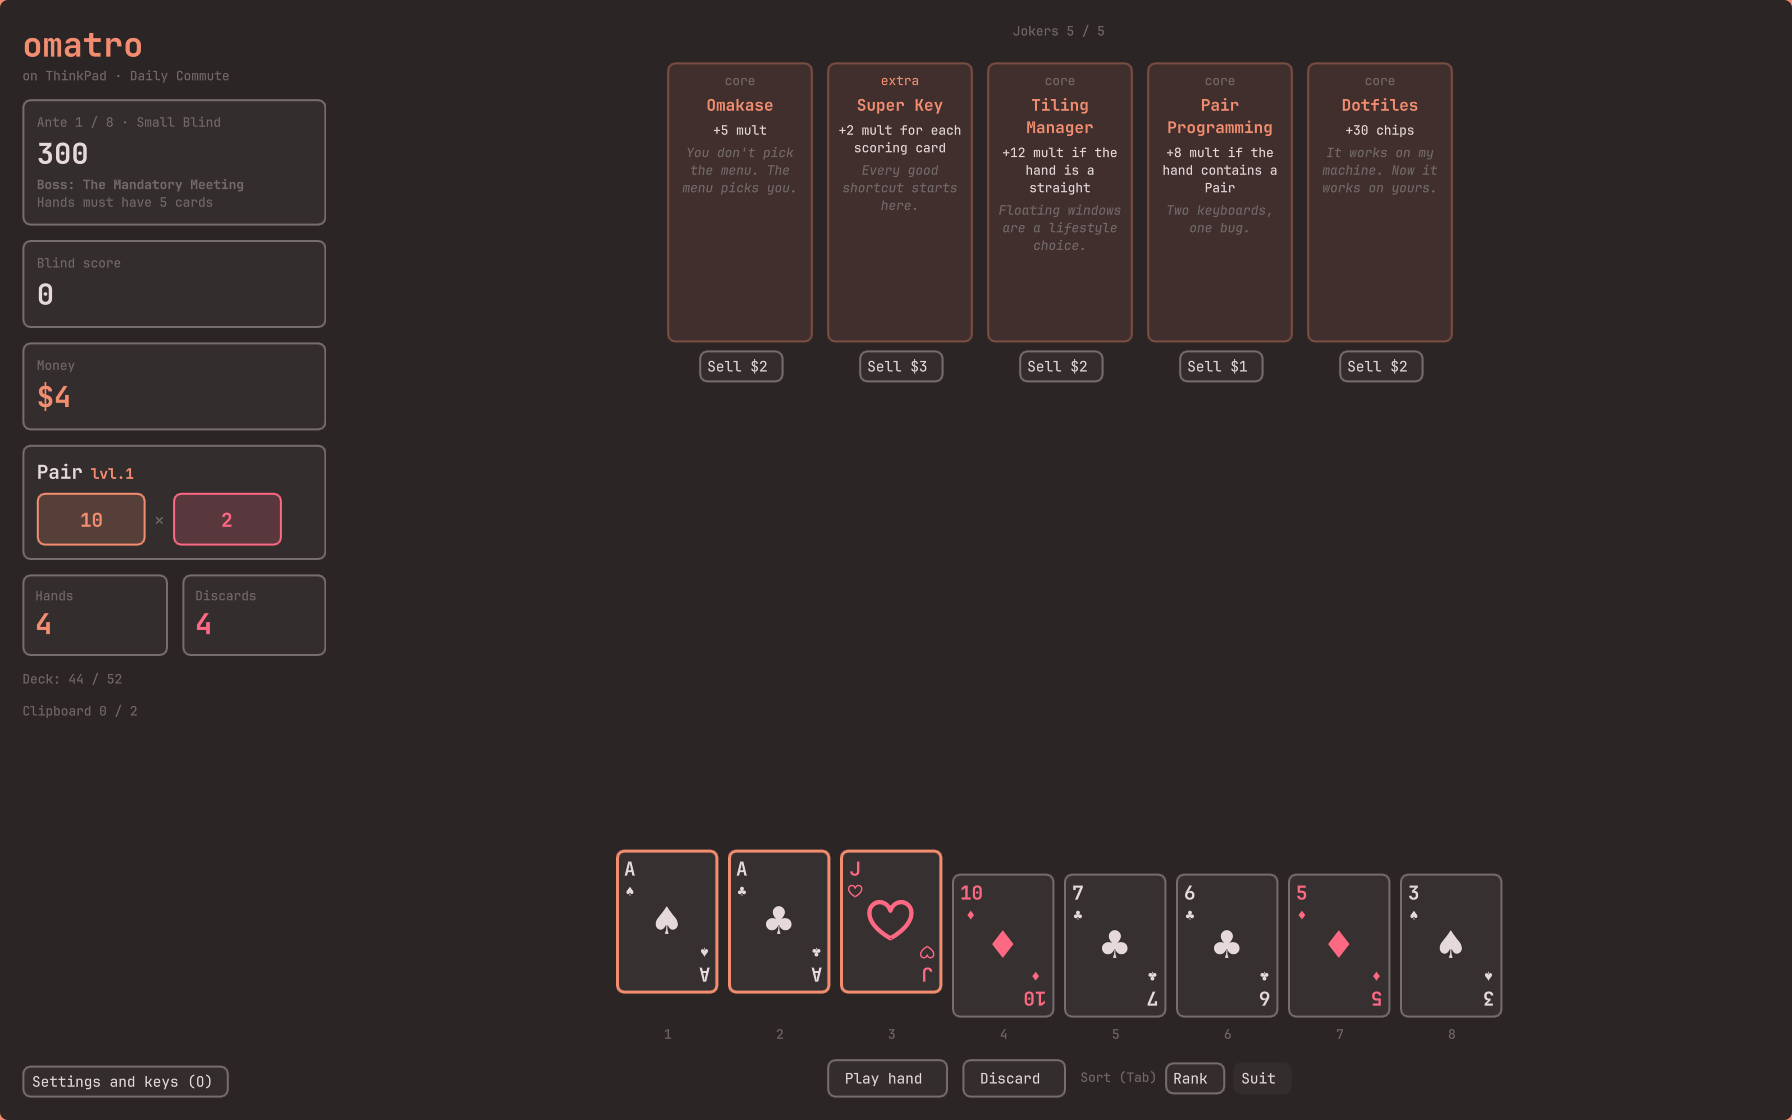
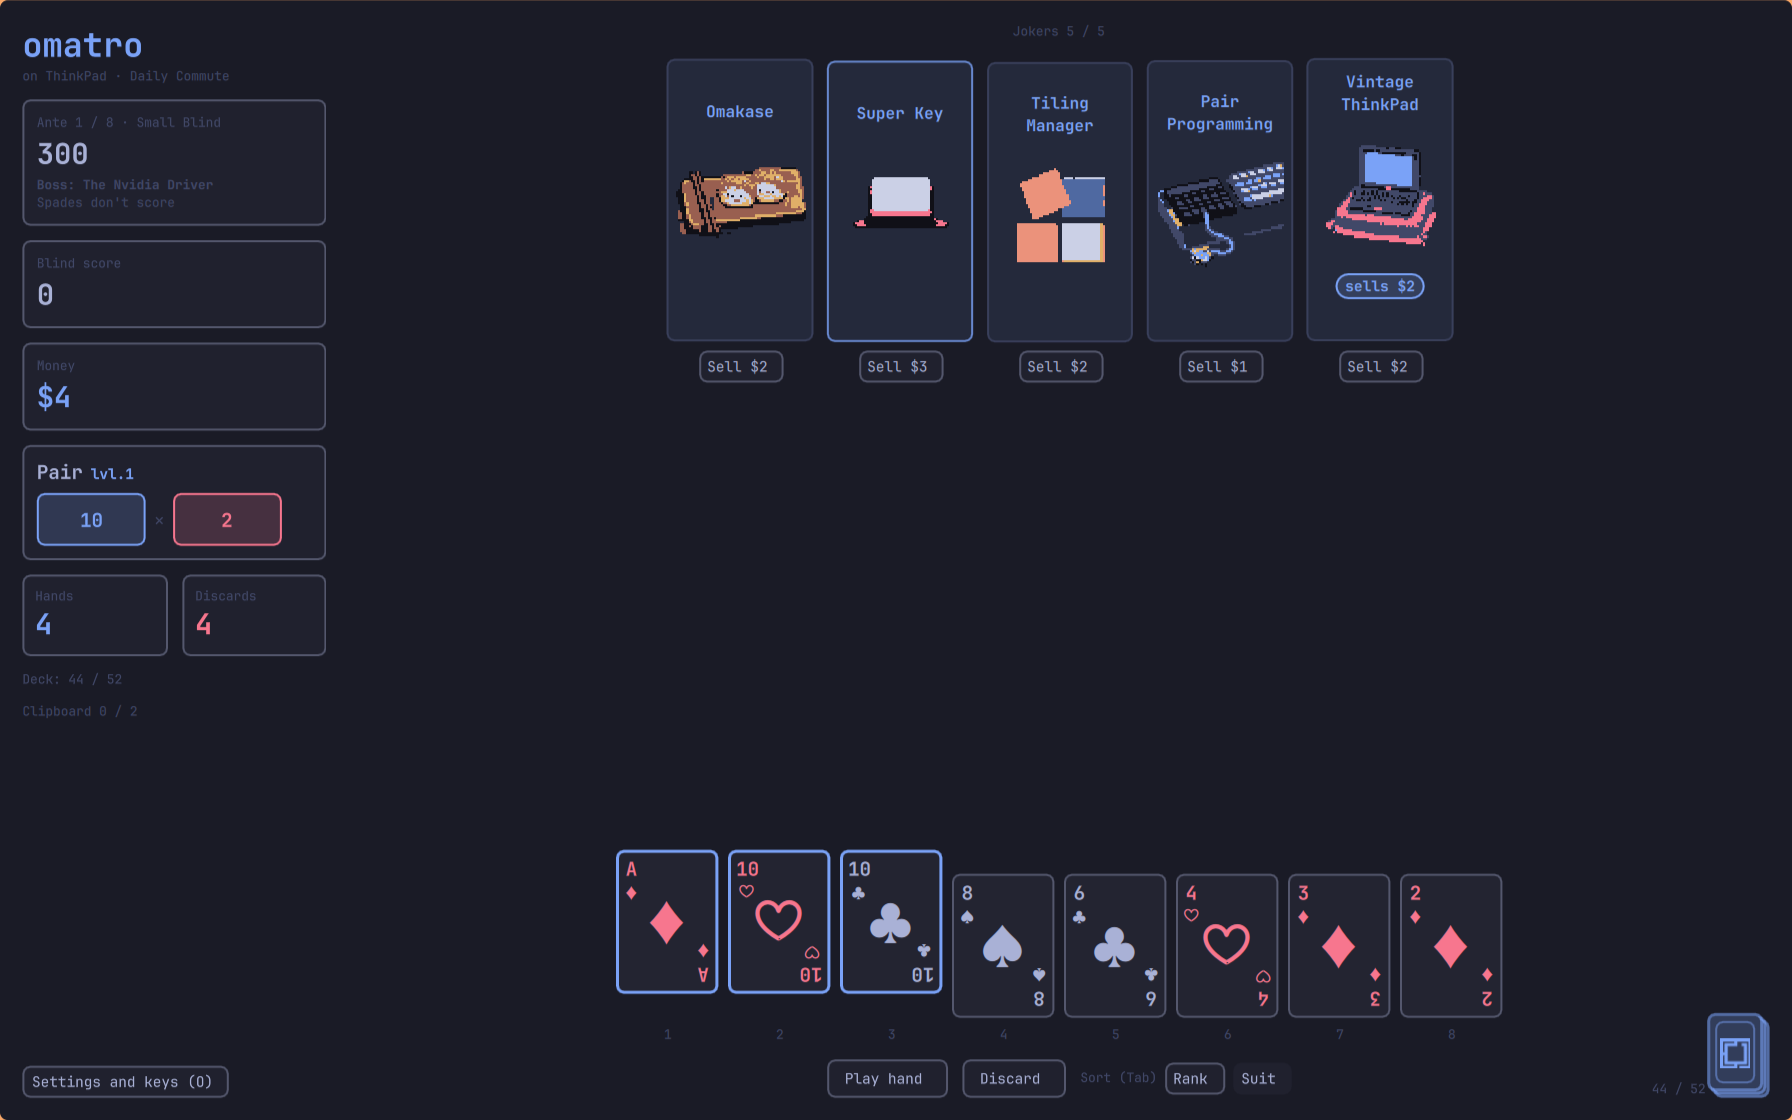
README: new screenshot and theme GIF, with the drawn jokers

diff --git a/README.md b/README.md
@@ -3,7 +3,7 @@
 A Balatro-like card game for Omarchy: play poker hands to beat blinds, while jokers
 multiply the score (chips × mult).
 
-![A game of omatro: the first blind, five jokers, two aces and a jack selected](docs/screenshot.png)
+![A game of omatro: the first blind, five drawn jokers, a pair of tens and an ace selected](docs/screenshot.png)
 
 A standalone Qt Quick application, like omawrite or omacut, but written in Rust
 (Qt binding with [cxx-qt](https://github.com/KDAB/cxx-qt)):
